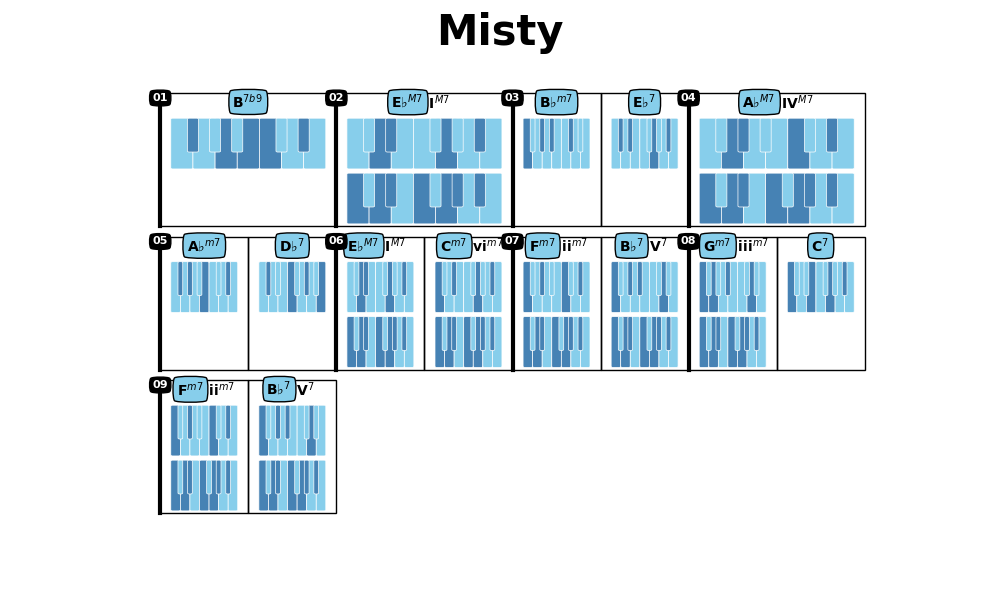
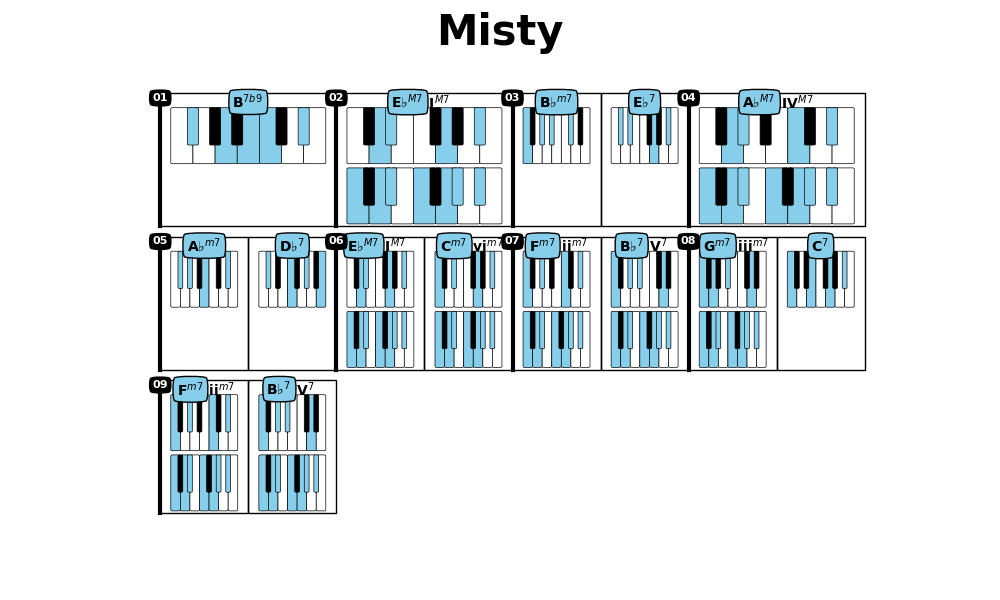
.

Changed region(s): [[0.155, 0.42, 0.868, 0.63], [0.155, 0.18, 0.868, 0.39], [0.155, 0.66, 0.341, 0.87]]

diff --git a/jazzElements/base.py b/jazzElements/base.py
@@ -34,19 +34,26 @@ def plotNotes(notes, pos=None, name='', ax=0, nbOctaves=1):
     if pos is None:
         pos = [0, 0, 100, 40]
 
-    def plotKey(ax, x, y, w, h,keyType, status):
+    def plotKey(ax, x, y, w, h, keyType, status):
         lw = .5
-        pad=0.5
-        edgeColor = 'w'
+        pad = 0.5
+        # edgeColor = 'w'
+        # parms = dict(
+        #     black=dict(color=['skyblue', 'steelblue'], z=1),
+        #     white=dict(color=['skyblue', 'steelblue'], z=0)
+        # )
+
+        edgeColor = 'k'
         parms = dict(
-            black=dict(color=['skyblue', 'steelblue'], z=1),
-            white=dict(color=['skyblue', 'steelblue'], z=0)
+            black=dict(color=['k', 'skyblue'], z=1),
+            white=dict(color=['w', 'skyblue'], z=0)
         )
+
         ax.add_patch(FancyBboxPatch((x + pad, y + pad),
                                     abs(w) - 2 * pad, abs(h) - 2 * pad,
                                     boxstyle="round,pad=" + str(pad),
-                                    fc=parms[keyType]['color'][status], ec=edgeColor, zorder=parms[keyType]['z'], lw=lw))
-
+                                    fc=parms[keyType]['color'][status], ec=edgeColor, zorder=parms[keyType]['z'],
+                                    lw=lw))
 
     nb = int(np.ceil(len(notes) / (nbOctaves * 12)) * (nbOctaves * 12))
     start = 'C' if notes[0] - Note('C') < notes[0] - Note('F') else 'F'
@@ -65,11 +72,11 @@ def plotNotes(notes, pos=None, name='', ax=0, nbOctaves=1):
     nWhites = 0
     for i, n in enumerate(chromatic):
         if n in whites:
-            plotKey(ax, pos[0] + (nWhites) * whiteWidth, pos[1], whiteWidth, pos[3],keyType='white', status=n in notes)
+            plotKey(ax, pos[0] + (nWhites) * whiteWidth, pos[1], whiteWidth, pos[3], keyType='white', status=n in notes)
             nWhites += 1
         else:
             plotKey(ax, pos[0] + (nWhites) * whiteWidth - blackWidth / 2, pos[1] + pos[3] / 3, blackWidth,
-                    2 * pos[3] / 3, keyType='black', status = n in notes)
+                    2 * pos[3] / 3, keyType='black', status=n in notes)
     plot(0, 0, '.w', zorder=-1)
     if name:
         text(pos[0], pos[1] + pos[3] / 2, name, ha='right', va='center', rotation=90)
@@ -91,7 +98,7 @@ progressions = \
                      'CM7|%|E7|%|A7|%|Dm|%|F|Fm|CM7,Em7|A7|Dm7|G7|C6,Ebdim|Dm7,G7|',
 
         'My Romance': '|CM7,FM7|Em7,Am7|Dm7,G7|CM7,E7#5|Am7,E7#5|Am7,A7#5|Dm7,G7|CM7,C7|'
-                      'FM7,Bb7|CM7,C7|FM7,Bb7|CM7|F#m7b5,B7|Em7,Bb7|Am7,D7|Dm7,G7|', # INCOMPLETE
+                      'FM7,Bb7|CM7,C7|FM7,Bb7|CM7|F#m7b5,B7|Em7,Bb7|Am7,D7|Dm7,G7|',  # INCOMPLETE
 
         'All The Things You Are':
             '|Fm7|Bbm7|Eb7|AbM7|DbM7|Dm7,G7|CM7|%'
@@ -538,8 +545,8 @@ class Scale():
             raise ValueError('Cannot calculate relative Major')
 
     def parallelMinor(self, asStr=False):
-        if self.mode== 'Ion':
-            return Scale(Note(self.root),'Aeo').name if asStr else Scale(Note(self.root),'Aeo')
+        if self.mode == 'Ion':
+            return Scale(Note(self.root), 'Aeo').name if asStr else Scale(Note(self.root), 'Aeo')
         else:
             raise ValueError('Cannot calculate parallel Minor')
 
@@ -557,7 +564,7 @@ class Scale():
             S.append([From, To, s[1]])
         return S
 
-    def getDegree(self, d, nbNotes=4,asStr=False):
+    def getDegree(self, d, nbNotes=4, asStr=False):
         if isinstance(d, str):
             d = self.chrDegLst.index(d) + 1
         return self.chords(nbNotes=nbNotes)[d - 1].name if asStr else self.chords(nbNotes=nbNotes)[d - 1]
@@ -745,34 +752,32 @@ class Progression:
 
     def plotChord(self, ax, chr, pos, plotType='fn'):
         xChr, yChr, wChr, hChr = pos
-        bgd = patches.Rectangle((xChr, yChr), wChr, hChr, fill=False, clip_on=False,color='k')
+        bgd = patches.Rectangle((xChr, yChr), wChr, hChr, fill=False, clip_on=False, color='k')
         ax.add_patch(bgd)
         # Function
-        if plotType=='fn':
+        if plotType == 'fn':
             root, alt, chrType = re.search(Chord.regexChord, chr['chord'].name).groups()
-            text(xChr + wChr / 2, yChr + 2*hChr/3, '{}{}$^{{{}}}$ '.format(root, alt, chrType.replace('#', '+')),
-                  va='center', ha='right' if 'degree' in chr else 'center', fontSize=10,
+            text(xChr + wChr / 2, yChr + 2 * hChr / 3, '{}{}$^{{{}}}$ '.format(root, alt, chrType.replace('#', '+')),
+                 va='center', ha='right' if 'degree' in chr else 'center', fontSize=10,
                  bbox=dict(boxstyle='round4', fc='skyblue'), weight=1000)
 
             if 'degree' in chr:
                 alt, deg, chrType = re.search(Scale.regexRoman, chr['degree']).groups()
-                text(xChr + wChr / 2, yChr + 2*hChr/3, ' {}{}$^{{{}}}$'.format(alt, deg, chrType.replace('#', '+')),
-                      va='center', ha='left', fontSize=10, weight=1000)
+                text(xChr + wChr / 2, yChr + 2 * hChr / 3, ' {}{}$^{{{}}}$'.format(alt, deg, chrType.replace('#', '+')),
+                     va='center', ha='left', fontSize=10, weight=1000)
             if 'scale' in chr:
-                text(xChr+2, yChr,chr['scale'].name,
-                      va='bottom', ha='left', fontSize=7, weight=1000,style='italic')
-
+                text(xChr + 2, yChr, chr['scale'].name,
+                     va='bottom', ha='left', fontSize=7, weight=1000, style='italic')
 
             x = xChr + wChr / 2
-            y = yChr+hChr/3
+            y = yChr + hChr / 3
             if 'function' in chr:
                 if chr['function'] == 'T' or 'sub1' in chr['function']: fnc = 'b'
                 if chr['function'] == 'PD' or 'sub2' in chr['function']: fnc = 'g'
                 if chr['function'] == 'D' or 'sub5' in chr['function']: fnc = 'g'
-                bgd = patches.Rectangle((xChr,yChr), wChr,hChr, fill=True, clip_on=False, color=fnc,alpha=.1)
+                bgd = patches.Rectangle((xChr, yChr), wChr, hChr, fill=True, clip_on=False, color=fnc, alpha=.1)
                 ax.add_patch(bgd)
-                text(x, y, chr['function'], va='center', ha='center', fontSize=10,weight='bold')
-
+                text(x, y, chr['function'], va='center', ha='center', fontSize=10, weight='bold')
 
         if plotType == 'kbd':
             root, alt, chrType = re.search(Chord.regexChord, chr['chord'].name).groups()
@@ -783,15 +788,15 @@ class Progression:
             if 'degree' in chr:
                 alt, deg, chrType = re.search(Scale.regexRoman, chr['degree']).groups()
                 text(xChr + wChr / 2, yChr + hChr, ' {}{}$^{{{}}}$'.format(alt, deg, chrType.replace('#', '+')),
-                     fontsize=14, va='top', ha='left', fontSize=10, weight=1000)
+                     va='top', ha='left', fontSize=10, weight=1000)
 
-            ax = gca()
-            Chord(chr['chord']).plot(ax=ax, pos=[xChr + 3, yChr + 3 +(hChr - 15) / 2, wChr - 6, (hChr - 15) / 2], nbOctaves=1, showName=False)
+            Chord(chr['chord']).plot(ax=ax, pos=[xChr + 3, yChr + 3 + (hChr - 10) / 2, wChr - 6, (hChr - 10) / 2],
+                                     nbOctaves=1, showName=False)
             if 'scale' in chr:
-                Scale(chr['scale'].name).plot(ax=ax, pos=[xChr + 3, yChr + 1, wChr - 6, (hChr - 15) / 2], nbOctaves=1,
+                Scale(chr['scale'].name).plot(ax=ax, pos=[xChr + 3, yChr + 1, wChr - 6, (hChr - 10) / 2], nbOctaves=1,
                                               showName=False)
 
-    def plotBar(self, b, pos,plotType='fn'):
+    def plotBar(self, b, pos, plotType='fn'):
         # Debug:
         # bgd = patches.Rectangle((xBar,yBar), wBar, hBar,color='r', fill=False, clip_on=True, alpha=1,linestyle='dashed')
         # ax.add_patch(bgd)
@@ -802,7 +807,7 @@ class Progression:
         ax = gca()
         for ic, c in enumerate(chrs):
             posChr = [xBar + wBeat * nBeats + self.sepx * (ic), yBar, c['beats'] * wBeat, hBar]
-            self.plotChord(ax, c, posChr,plotType=plotType)
+            self.plotChord(ax, c, posChr, plotType=plotType)
             nBeats += c['beats']
             if nBeats >= self.barsPerRow * self.beatsPerBar:
                 nBeats = 0
@@ -814,16 +819,16 @@ class Progression:
              weight=1000,
              bbox=dict(boxstyle='round4', fc='k'))
 
-    def plot(self,plotType='fn'):
+    def plot(self, plotType='fn'):
         # todo: Scaling issues
-        if plotType =='fn':
+        if plotType == 'fn':
             self.barsPerRow = 4
             nbRows = np.ceil(self.nbBars / self.barsPerRow)
-            figure(figsize=(2*self.barsPerRow,nbRows))
+            figure(figsize=(2 * self.barsPerRow, nbRows))
         else:
             self.barsPerRow = 4
             nbRows = np.ceil(self.nbBars / self.barsPerRow)
-            figure(figsize=(2.5*self.barsPerRow,2*nbRows))
+            figure(figsize=(2.5 * self.barsPerRow, 2 * nbRows))
 
         x, y, w, h, self.sepx, self.sepy = [0, 0, 200, 200, 0, 5]
 
@@ -834,10 +839,8 @@ class Progression:
         for b in range(self.chords[-1]['bar'] + 1):
             posBar = [x + (b % self.barsPerRow) * (wBar + self.sepx),
                       y + h - hBar * (1 + (b // self.barsPerRow)) - self.sepy * ((b // self.barsPerRow)), wBar, hBar]
-            self.plotBar(b, posBar,plotType=plotType)
+            self.plotBar(b, posBar, plotType=plotType)
 
         axis('tight')
         axis('off')
         suptitle(self.name, size=30, weight='bold')
-
-
